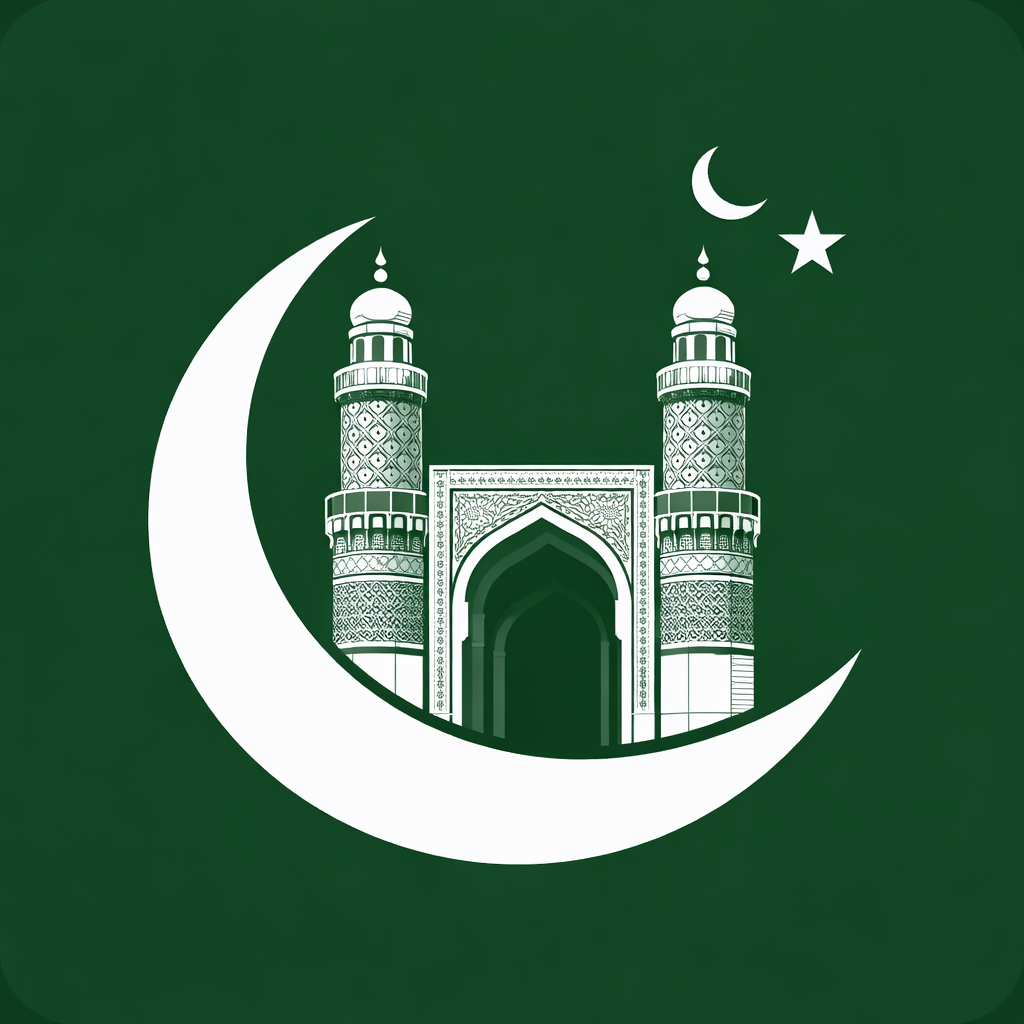
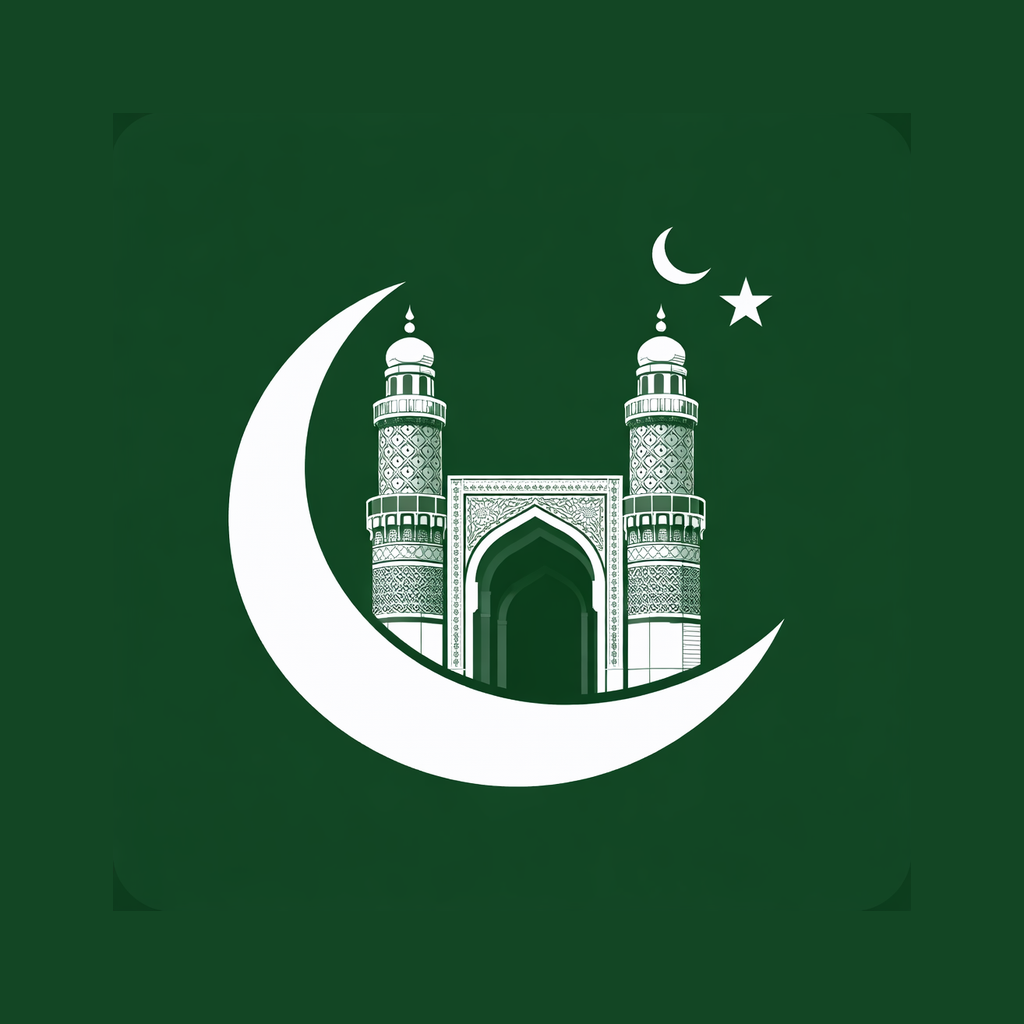
Ship iOS 1.0.15 (11) with dual Quran fonts, small defaults, and quieter Debug logs.
Unlocks qpcHafs on iPhone, pads App Icon/splash, demotes AdhanSchedule/Startup console.error so LogBox no longer blocks sim, and opens a new App Store version train after 1.0.0 closed.

Changed region(s): [[0.125, 0.2188, 0.8438, 0.8438], [0.6562, 0.1562, 0.75, 0.2188], [0.75, 0.2188, 0.8125, 0.2812]]

diff --git a/app/settings.tsx b/app/settings.tsx
@@ -25,7 +25,6 @@ import { MaterialIcons } from '@expo/vector-icons';
 import { Stack, useRouter } from 'expo-router';
 import React, { useCallback, useMemo, useState } from 'react';
 import {
-  Platform,
   Pressable,
   ScrollView,
   StyleSheet,
@@ -49,7 +48,6 @@ export default function SettingsScreen() {
   const calculationMethod = prayerState.settings.calculationMethod;
   const router = useRouter();
   const [expandedSection, setExpandedSection] = useState<string | null>(null);
-  const isIOS = Platform.OS === 'ios';
 
   const themes: { id: ThemeMode; name: string; icon: string }[] = useMemo(
     () => [
@@ -103,7 +101,7 @@ export default function SettingsScreen() {
     [],
   );
 
-  const visibleQuranFonts = isIOS ? quranFonts.filter((f) => f.id !== 'qpcHafs') : quranFonts;
+  const visibleQuranFonts = quranFonts;
 
   const calculationMethods = useMemo(
     () =>
@@ -196,6 +194,8 @@ export default function SettingsScreen() {
 
           {/* Quran Font Settings */}
           <Pressable
+            testID="settings-quran-font"
+            accessibilityLabel="خط قرآن"
             onPress={() => toggleSection('quranFont')}
             style={[styles.sectionHeader, { backgroundColor: theme.card, borderColor: theme.cardBorder }]}
           >
@@ -217,6 +217,8 @@ export default function SettingsScreen() {
               {visibleQuranFonts.map((f) => (
                 <Pressable
                   key={f.id}
+                  testID={`settings-quran-font-option-${f.id}`}
+                  accessibilityLabel={f.name}
                   onPress={() => setQuranFont(f.id)}
                   style={[
                     styles.optionItem,
@@ -240,13 +242,6 @@ export default function SettingsScreen() {
                   )}
                 </Pressable>
               ))}
-              {isIOS ? (
-                <View style={[styles.fontNotice, { borderTopColor: theme.divider }]}>
-                  <Text style={[styles.fontNoticeText, { color: theme.textSecondary }]}>
-                    برای نمایش زیباتر و پایدارتر در iOS، صفحه قرآن فعلاً با خط استاندارد عثمان طه نشان داده میشود.
-                  </Text>
-                </View>
-              ) : null}
             </View>
           )}
 

diff --git a/context/PrayerContext.tsx b/context/PrayerContext.tsx
@@ -1982,7 +1982,9 @@ async function configureAndroidNotificationChannels(
 
   const runPrayerScheduleNow = useCallback(async (reason: string, runId: number) => {
     const scheduleStartedAt = Date.now();
-    console.error(`[AdhanSchedule] start run=${runId} reason=${reason}`);
+    if (__DEV__) {
+      console.log(`[AdhanSchedule] start run=${runId} reason=${reason}`);
+    }
 
     // Avoid stacking cold-start schedule reasons immediately after a successful sync.
     if (
@@ -1993,7 +1995,9 @@ async function configureAndroidNotificationChannels(
         reason === 'coalesced' ||
         reason.startsWith('android-'))
     ) {
-      console.error(`[AdhanSchedule] skip run=${runId} reason=${reason} (recent success)`);
+      if (__DEV__) {
+        console.log(`[AdhanSchedule] skip run=${runId} reason=${reason} (recent success)`);
+      }
       markAdhanSettled();
       return;
     }
@@ -2512,9 +2516,11 @@ async function configureAndroidNotificationChannels(
     dispatch({ type: 'SET_ERROR', payload: null });
     lastSuccessfulScheduleAtRef.current = Date.now();
     markAdhanSettled();
-    console.error(
-      `[AdhanSchedule] done run=${runId} reason=${reason} ms=${Date.now() - scheduleStartedAt} native=${nativeExactScheduledCount} expectedAdhan=${expectedAdhanCount} reminders=${scheduledReminderExpoCount}`,
-    );
+    if (__DEV__) {
+      console.log(
+        `[AdhanSchedule] done run=${runId} reason=${reason} ms=${Date.now() - scheduleStartedAt} native=${nativeExactScheduledCount} scheduledAdhan=${scheduledAdhanCount} expectedAdhan=${expectedAdhanCount} reminders=${scheduledReminderExpoCount}`,
+      );
+    }
   }, [
     buildNextTriggerByPrayer,
     buildExpectedPrayerNotifications,
@@ -2637,7 +2643,9 @@ async function configureAndroidNotificationChannels(
           lastSuccessfulScheduleAtRef.current > 0 &&
           Date.now() - lastSuccessfulScheduleAtRef.current < 15_000
         ) {
-          console.error(`[AdhanSchedule] skip pending reason=${reason} (recent success)`);
+          if (__DEV__) {
+            console.log(`[AdhanSchedule] skip pending reason=${reason} (recent success)`);
+          }
           return;
         }
         await requestPrayerSchedule(reason);

diff --git a/context/AppContext.tsx b/context/AppContext.tsx
@@ -6,7 +6,6 @@
 import React, { createContext, useContext, useReducer, useEffect, useRef, useCallback, ReactNode } from 'react';
 import AsyncStorage from '@react-native-async-storage/async-storage';
 import { ThemeMode, QuranFontFamily, DariFontFamily, PashtoFontFamily, Themes, ThemeColors, QuranFonts } from '@/constants/theme';
-import { Platform } from 'react-native';
 import {
   Bookmark,
   ReadingPosition,
@@ -28,8 +27,8 @@ const DEFAULT_PREFERENCES: UserPreferences = {
   quranFont: 'scheherazade',  // Uthmani Taha (عثمان طه) - default Quran font
   dariFont: 'vazirmatn',    // Modern Dari font
   pashtoFont: 'amiri',      // Naskh style for Pashto (readable)
-  arabicFontSize: 'medium',
-  translationFontSize: 'medium',
+  arabicFontSize: 'small',
+  translationFontSize: 'small',
   viewMode: 'scroll',
   showTranslation: 'dari',
   autoPlayAudio: true,
@@ -286,14 +285,6 @@ export function AppProvider({ children }: { children: ReactNode }) {
         preferencesNormalized = true;
       }
 
-      if (Platform.OS === 'ios' && rawPreferences.quranFont === 'qpcHafs') {
-        preferences = {
-          ...preferences,
-          quranFont: 'scheherazade',
-        };
-        preferencesNormalized = true;
-      }
-
       const bookmarks = bookmarksJson ? JSON.parse(bookmarksJson) : [];
       const lastPosition = positionJson ? JSON.parse(positionJson) : DEFAULT_POSITION;
 
@@ -323,8 +314,7 @@ export function AppProvider({ children }: { children: ReactNode }) {
   };
 
   const setQuranFont = (font: QuranFontFamily) => {
-    const nextFont = Platform.OS === 'ios' && font === 'qpcHafs' ? 'scheherazade' : font;
-    dispatch({ type: 'SET_FONT', payload: nextFont });
+    dispatch({ type: 'SET_FONT', payload: font });
   };
 
   const setDariFont = (font: DariFontFamily) => {

diff --git a/app/_layout.tsx b/app/_layout.tsx
@@ -31,11 +31,11 @@ import { getSavedPrayerCityKey, isFirstOpenAdhanSetupDone, runPermissionOnboardi
 import { ensurePushRegistrationOnFirstOpen } from '@/utils/pushRegistry';
 
 const STARTUP_EPOCH_MS = Date.now();
-const STARTUP_TIMING_ENABLED = true;
+const STARTUP_TIMING_ENABLED = __DEV__;
 function startupMark(label: string): void {
   if (!STARTUP_TIMING_ENABLED) return;
   const elapsed = Date.now() - STARTUP_EPOCH_MS;
-  console.error(`[Startup][${elapsed}ms] ${label}`);
+  console.log(`[Startup][${elapsed}ms] ${label}`);
 }
 
 // Force RTL for Dari/Pashto/Arabic UI (required on some Android/Huawei builds)
@@ -90,6 +90,8 @@ if (__DEV__) {
     'Legacy Architecture',
     'The app is running using the Legacy Architecture',
     'Sending `onAnimatedValueUpdate` with no listeners registered',
+    '[Startup]',
+    '[AdhanSchedule]',
   ]);
 }
 

diff --git a/AppEntry.js b/AppEntry.js
@@ -11,8 +11,9 @@ import { LogBox, Platform } from 'react-native';
 
 const ENTRY_EPOCH_MS = Date.now();
 function entryMark(label) {
+  if (!__DEV__) return;
   const elapsed = Date.now() - ENTRY_EPOCH_MS;
-  console.error(`[Startup][entry][${elapsed}ms] ${label}`);
+  console.log(`[Startup][entry][${elapsed}ms] ${label}`);
 }
 
 entryMark('AppEntry begin');
@@ -23,6 +24,8 @@ if (__DEV__) {
     'expo-av has been deprecated',
     'obtaining a push token may not work on iOS simulators',
     'Sending `onAnimatedValueUpdate` with no listeners registered',
+    '[Startup]',
+    '[AdhanSchedule]',
   ]);
 }
 

diff --git a/hooks/useFonts.ts b/hooks/useFonts.ts
@@ -16,12 +16,7 @@ const IOS_QURAN_FONT_FAMILIES = {
  */
 export function getQuranFontFamily(fontKey: QuranFontFamily): string {
   if (Platform.OS === 'ios') {
-    if (fontKey === 'qpcHafs') {
-      return IOS_QURAN_FONT_FAMILIES.scheherazade;
-    }
-    if (fontKey === 'scheherazade') {
-      return IOS_QURAN_FONT_FAMILIES.scheherazade;
-    }
+    return IOS_QURAN_FONT_FAMILIES[fontKey] || IOS_QURAN_FONT_FAMILIES.scheherazade;
   }
   return QuranFonts[fontKey]?.name || 'ScheherazadeNew';
 }
